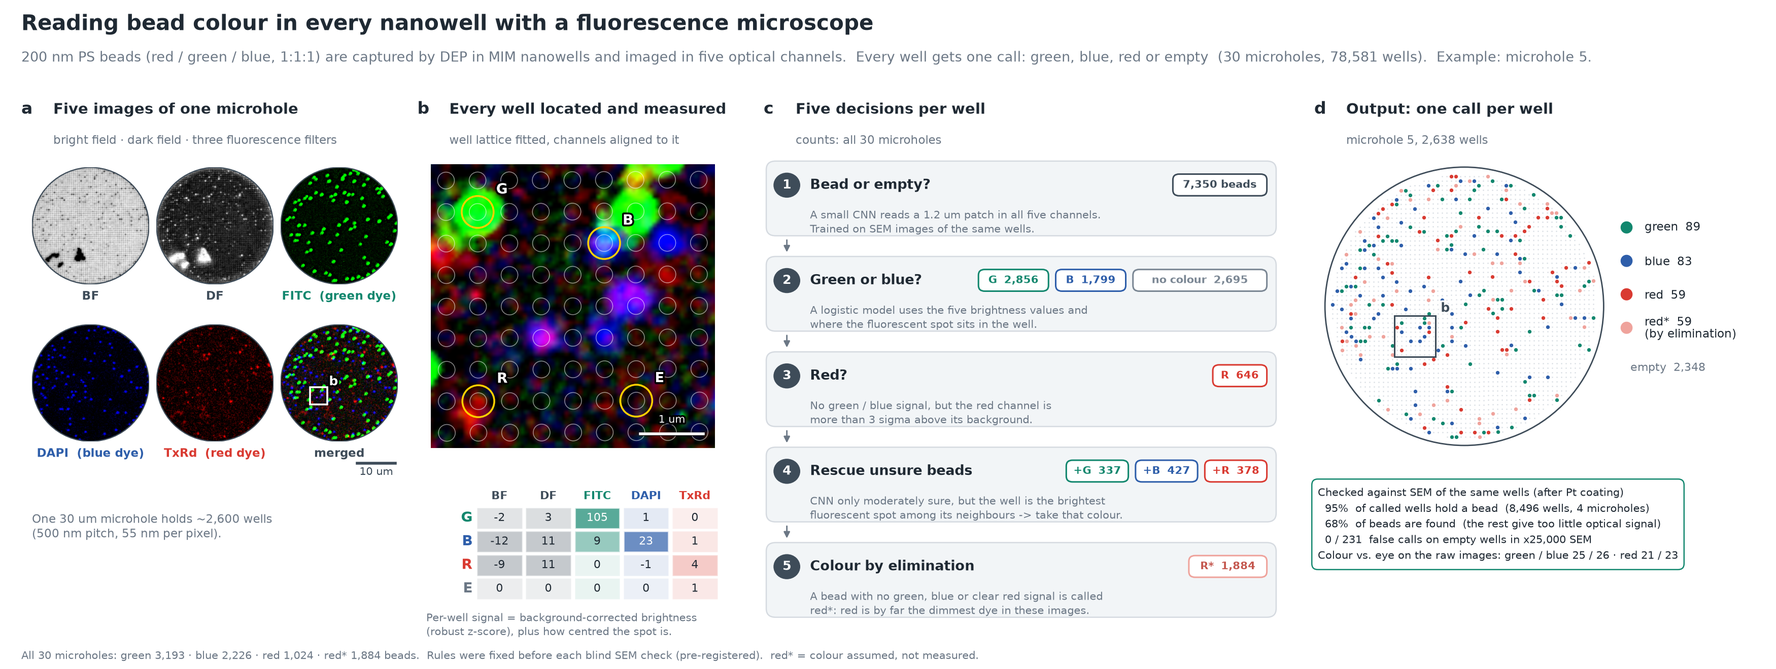
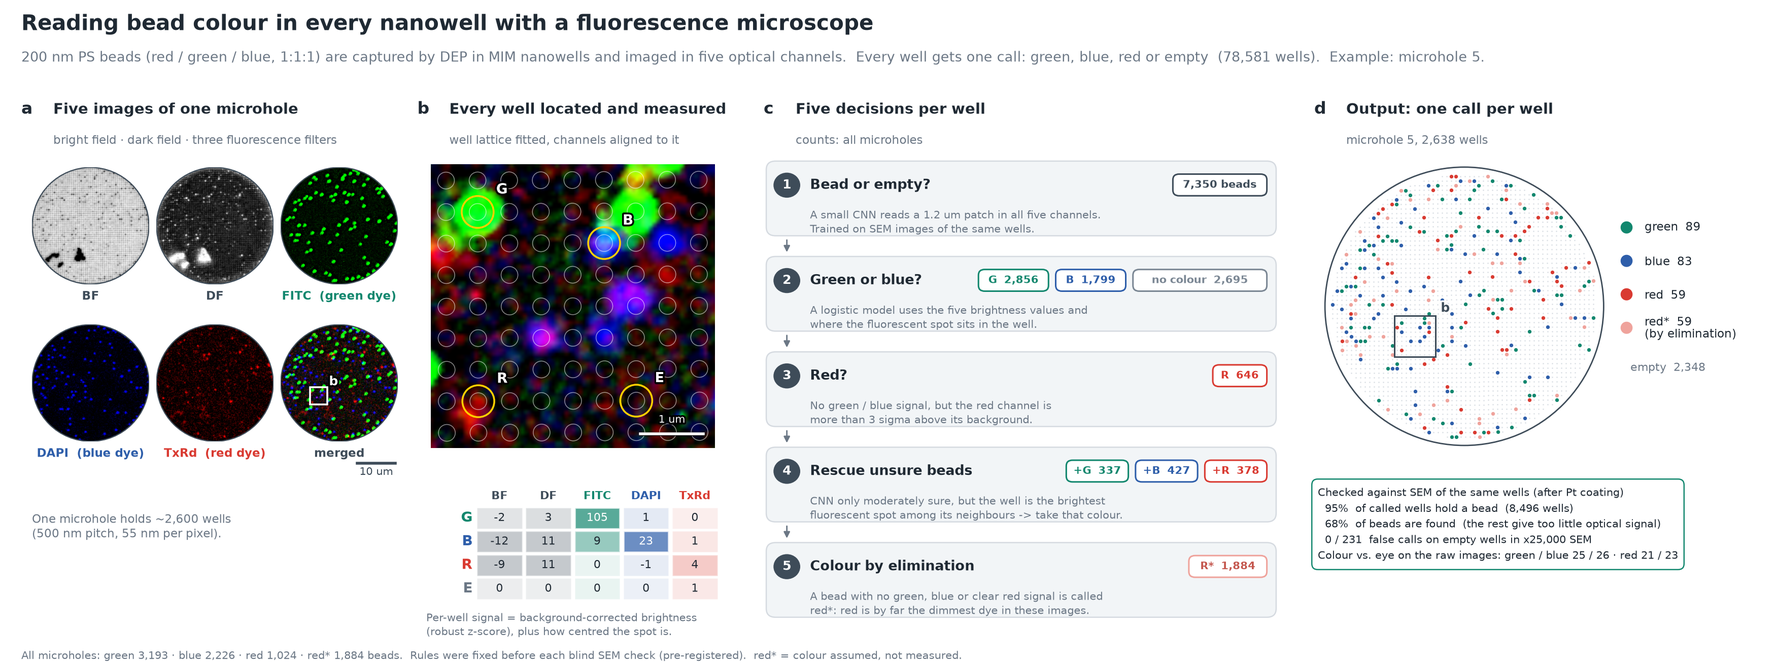
Public scope: drop window sizes and window counts from figures and captions
- Fig. 4 (CNN readout): remove "18.8 um microhole" and the 12/44/75-window counts; panel C title now "Occupancy vs. voltage"
- CNN readout v7 / pipeline v7: remove window IDs, the 18.8 um window size and the 75-window count
- Fig. 5b: remove the 20 um window size
- Fluorescence pipeline (Fig. 6a): remove the 30 um window size and the 30/4-microhole counts
- Three-colour map (Fig. 6b): remove field numbers and bar labels (they showed the field count)
- index.html / index_v1.html captions: drop "in 75 windows" and "30 microholes"

Claude-Session: https://claude.ai/code/session_01LQC9gszC1UkJGRSxoxnvnv

diff --git a/index.html b/index.html
@@ -519,7 +519,7 @@ var RESEARCH_INTEREST_TOPICS = [
     desc: 'Reading out plasmonic capture uniformity at scale with a convolutional neural network that classifies every well in every SEM window as empty, single-particle, or multi-particle occupancy. Self-supervised pretraining on ~194k unlabeled patches, fine-tuned on ~10.6k labeled wells, and run as a 5-network ensemble with a confidence gate, the network scores 99.0% on 2,116 held-out wells and agrees with an independent fluorescence readout. Across 70,983 wells in 75 SEM windows at V₂, it reads out a 98.99 ± 0.84% capture rate per window (98.2% single-particle, 0.85% RSD) — the structural statistic that makes the array quantitative.',
     relatedSkills: [{ categoryKey: 'dataanalysis', itemNames: ['Python-based data analysis'] }],
     imgs: [
-      { src: 'fig4_cnn_readout_v3.jpg', cap: 'CNN readout: every well in every SEM window is classified as empty, single, or multi (99.0% accuracy on 2,116 held-out wells, matched by an independent fluorescence readout). Capture switches on with DEP voltage (0.11% at 0 Vpp, 41.3% at V₁, 99.0% at V₂), and at V₂ reaches 98.99 ± 0.84% per window across 70,983 wells in 75 windows (RSD 0.85%).' }
+      { src: 'fig4_cnn_readout_v3.jpg', cap: 'CNN readout: every well in every SEM window is classified as empty, single, or multi (99.0% accuracy on 2,116 held-out wells, matched by an independent fluorescence readout). Capture switches on with DEP voltage (0.11% at 0 Vpp, 41.3% at V₁, 99.0% at V₂), and at V₂ reaches 98.99 ± 0.84% per window across 70,983 wells (RSD 0.85%).' }
     ]
   }
 ];
@@ -725,11 +725,11 @@ var SKILLS_GROUPS = [
           { name: 'OriginLab', desc: 'Scientific graphing and data analysis.', imgs: [], noPanel: true },
           { name: 'Veusz', desc: 'Scientific plotting for publication-quality figures.', imgs: [], noPanel: true },
           { name: 'Python-based data analysis', desc: 'Custom CNN-based image/data processing using PyTorch and OpenCV, applied to quantify single-particle capture uniformity (RSD) from SEM images as a measure of performance. Extended to an optical-microscope (OM) readout that calls the bead colour in every nanowell from five-channel fluorescence imaging and is validated against SEM of the same wells — a faster, non-destructive alternative to SEM for reading out multiplexed particle capture.', imgs: [
-            { src: 'fig_cnn_pipeline_v7.jpg', cap: 'Automated single-particle trapping analysis: SEM image → lattice fitting (500 nm lattice and microhole edge recovered from the image, no manual input) → per-well CNN classification → quantitative readout. 98.99 ± 0.84% per-window capture across 70,983 wells in 75 windows (RSD 0.85%); 99.0% accuracy on 2,116 held-out wells.' },
+            { src: 'fig_cnn_pipeline_v7.jpg', cap: 'Automated single-particle trapping analysis: SEM image → lattice fitting (500 nm lattice and microhole edge recovered from the image, no manual input) → per-well CNN classification → quantitative readout. 98.99 ± 0.84% per-window capture across 70,983 wells (RSD 0.85%); 99.0% accuracy on 2,116 held-out wells.' },
             { src: 'fig_cnn_readout_v7.jpg', cap: 'CNN-based classification (SINGLE/MULTI/EMPTY/low-confidence HOLD) with cnn_ps_v7_1, shown on the anchor (4,500×) and zoom (25,000×) images of the same microhole — one network reads both magnifications, no retraining.' },
             { src: 'fig_cnn_architecture_v7.jpg', cap: 'cnn_ps_v7_1: 4 conv blocks (64/128/256/256) → global average pooling → FC; self-supervised pretraining on 194k unlabeled patches, fine-tuned on 10,588 labeled wells; 5-network × 8-view ensemble, 99.0% accuracy on 2,116 held-out wells.' },
             { src: 'fig_om_readout_pipeline.png', cap: 'OM-based capture readout: 200 nm PS beads (red/green/blue, 1:1:1) captured by DEP in MIM nanowells are imaged in five channels (BF, DF, FITC, DAPI, TxRd). Each well is located on a fitted lattice and given one call — green, blue, red, or empty — through a five-step CNN + logistic-model decision cascade. Validated against SEM of the same wells: 95% of called wells hold a bead, with 0/231 false calls on empty wells.' },
-            { src: 'fig_om_readout_map.png', cap: 'Three-colour occupancy map from the OM readout across all 30 microholes (78,581 wells, 8,492 beads called), with per-field colour shares plotted against the 1:1:1 input ratio.' }
+            { src: 'fig_om_readout_map.png', cap: 'Three-colour occupancy map from the OM readout across every imaged microhole (78,581 wells, 8,492 beads called), with per-field colour shares plotted against the 1:1:1 input ratio.' }
           ] }
         ]
       },
@@ -782,7 +782,7 @@ var RESEARCH = [
     sub: 'Korea University',
     advisor: 'Advised by Prof. Yong-Sang Ryu',
     bullets: [
-      '<strong>Current Project: MIM Nanohole Plasmonic Metasurface for Single-Particle Analysis</strong> <span class="proj-status">(First-author, in preparation)</span><ul class="sub-bullets"><li><strong>Fabrication:</strong> Building on our co-authored work (in review, Advanced Materials), fabricating large-area nanohole plasmonic metasurfaces via laser interference lithography (LIL) and electron beam lithography (EBL) to define nanohole period and diameter, atomic layer deposition (ALD) and electron-beam evaporation to control insulator and metal layer thicknesses to within 5 nm, and ICP-RIE etching &mdash; engineering a SERS-optimized biosensor capable of quantifying SERS signal through DEP- and ACEO-driven single-nanoparticle capture at the sensing hotspots.</li><li><strong>Simulation:</strong> Simulating optical (COMSOL ewfd) and electrokinetic (COMSOL ec/spf) fields to identify nanohole geometries yielding a near-field enhancement of |<i>E</i>/<i>E</i><sub>0</sub>|<sup>4</sup> up to ~1.8&times;10<sup>5</sup> at sensing hotspots, and modeling DEP/ACEO-driven single-particle capture dynamics to validate experimental trapping behavior.</li><li><strong>CNN Analysis:</strong> Built a convolutional neural network (CNN) that classifies every nanowell in SEM images as empty, single-, or multi-particle occupied (self-supervised pretraining on ~194k unlabeled patches, fine-tuned on ~10.6k labeled wells, 5-network ensemble; 99.0% accuracy on 2,116 held-out wells). Across 70,983 wells in 75 SEM windows at V₂, it reads out a 98.99 &plusmn; 0.84% capture rate per window (98.2% single-particle) with 0.85% window-to-window relative standard deviation (RSD) &mdash; a quantitative measure of biosensor uniformity and the resulting SERS signal. Extended the readout to optical microscopy: a five-channel fluorescence pipeline calls the bead colour in every well (78,581 wells across 30 microholes) for multiplexed red/green/blue capture, validated against SEM of the same wells &mdash; a faster, non-destructive alternative to SEM (Fig. 6).</li></ul>',
+      '<strong>Current Project: MIM Nanohole Plasmonic Metasurface for Single-Particle Analysis</strong> <span class="proj-status">(First-author, in preparation)</span><ul class="sub-bullets"><li><strong>Fabrication:</strong> Building on our co-authored work (in review, Advanced Materials), fabricating large-area nanohole plasmonic metasurfaces via laser interference lithography (LIL) and electron beam lithography (EBL) to define nanohole period and diameter, atomic layer deposition (ALD) and electron-beam evaporation to control insulator and metal layer thicknesses to within 5 nm, and ICP-RIE etching &mdash; engineering a SERS-optimized biosensor capable of quantifying SERS signal through DEP- and ACEO-driven single-nanoparticle capture at the sensing hotspots.</li><li><strong>Simulation:</strong> Simulating optical (COMSOL ewfd) and electrokinetic (COMSOL ec/spf) fields to identify nanohole geometries yielding a near-field enhancement of |<i>E</i>/<i>E</i><sub>0</sub>|<sup>4</sup> up to ~1.8&times;10<sup>5</sup> at sensing hotspots, and modeling DEP/ACEO-driven single-particle capture dynamics to validate experimental trapping behavior.</li><li><strong>CNN Analysis:</strong> Built a convolutional neural network (CNN) that classifies every nanowell in SEM images as empty, single-, or multi-particle occupied (self-supervised pretraining on ~194k unlabeled patches, fine-tuned on ~10.6k labeled wells, 5-network ensemble; 99.0% accuracy on 2,116 held-out wells). Across 70,983 wells in 75 SEM windows at V₂, it reads out a 98.99 &plusmn; 0.84% capture rate per window (98.2% single-particle) with 0.85% window-to-window relative standard deviation (RSD) &mdash; a quantitative measure of biosensor uniformity and the resulting SERS signal. Extended the readout to optical microscopy: a five-channel fluorescence pipeline calls the bead colour in every well (78,581 wells) for multiplexed red/green/blue capture, validated against SEM of the same wells &mdash; a faster, non-destructive alternative to SEM (Fig. 6).</li></ul>',
       '<strong>Collaborative Projects</strong><ul class="sub-bullets"><li><strong>PRET (Plasmon Resonance Energy Transfer) metasurface:</strong> Collaborating with Prof. Junsuk Rho (POSTECH), whose group fabricates the base metasurface; performing the deposition (e.g., passivation) of the electrokinetic capture structures designed in our lab to complement it, enabling active electrokinetic concentration of target analytes in aqueous solution.</li><li><strong>Hydrogen-sensing MEMS platform:</strong> Providing deposition and lithography support for fabricating a terahertz-resonant MEMS chip structure whose resonance shifts depending on the presence and concentration of hydrogen gas, enabling label-free hydrogen sensing.</li><li><strong>Electrochemical-sensing nanostructure:</strong> Leading full-chip fabrication for a variant MIM nanohole platform (electrokinetic capture structure removed), tuning period, nanohole size, layer thickness, and constituent materials for electrochemical sensing.</li><li><strong>KU-KIST Joint Project:</strong> Collaborating Researcher at the Nanophotonics Research Center, KIST (Korea Institute of Science and Technology), developing label-free plasmonic sensing platforms for GPCR (G protein-coupled receptor) conformational dynamics in a drug-discovery initiative.</li></ul>'
     ],
     imgs: [
@@ -790,11 +790,11 @@ var RESEARCH = [
       { src: 'fig1_nanofab_v5.jpg', cap: 'Fig. 1 — Eight-step nanofabrication of the DEP-SERS nanowell chip, rendered from the mask CAD: Cr/Au bottom electrodes, ALD/e-beam/ALD SiO2 insulation, laser interference lithography (225 nm posts, 500 nm pitch), secondary exposure, Ti/Au e-beam deposition and lift-off, photoresist micropillars, and Ti/Al2O3 capping with ICP-RIE of the SiO2 to open the nanowells.' },
       { src: 'fig2_plasmonics_v6.jpg', cap: 'Fig. 2 — Plasmonic MIM nanohole metasurface: the 500 nm lattice phase-matches 785 nm light to the Au/SiO2 surface plasmon, and each aperture rim concentrates it into two lobes along E (COMSOL: |E/E₀|⁴ ≈ 1.8×10⁵); a period sweep shows how the lattice sets the hot spot.' },
       { src: 'fig3_electrokinetics_v6.jpg', cap: 'Fig. 3 — Electrokinetic capture: ACEO delivers 200 nm beads to the surface and DEP seats one bead per well at the top-Au rim — the plasmonic hot spot — shown against SEM of a filled microhole and COMSOL (ec + spf) modeling.' },
-      { src: 'fig4_cnn_readout_v3.jpg', cap: 'Fig. 4 — CNN readout: every well in every SEM window is classified as empty, single, or multi (99.0% accuracy on 2,116 held-out wells, matched by an independent fluorescence readout). Capture switches on with DEP voltage (0.11% at 0 Vpp, 41.3% at V₁, 99.0% at V₂), and at V₂ reaches 98.99 ± 0.84% per window across 70,983 wells in 75 windows (RSD 0.85%).' },
+      { src: 'fig4_cnn_readout_v3.jpg', cap: 'Fig. 4 — CNN readout: every well in every SEM window is classified as empty, single, or multi (99.0% accuracy on 2,116 held-out wells, matched by an independent fluorescence readout). Capture switches on with DEP voltage (0.11% at 0 Vpp, 41.3% at V₁, 99.0% at V₂), and at V₂ reaches 98.99 ± 0.84% per window across 70,983 wells (RSD 0.85%).' },
       { src: 'fig5_sers_readout_v6.jpg', cap: 'Fig. 5 — Concept: SERS raster read-out — one well, one bead, one spectrum — building a per-well identity map for multiplexed particle analysis. Spectra are illustrative (literature band positions for PS, PMMA, and PET), not measured on this chip.' },
       { src: 'fig5b_sers_measured.png', cap: 'Fig. 5b — Measured single-well SERS: the Raman probe (≈ 0.5 µm, about one 500 nm well) parked on a DEP-filled microhole (V₂, 200 nm PS) shows the polystyrene ring-breathing band at 1001 cm⁻¹ (S/N ≈ 17, one 20 s shot); the probe position is registered from the optical view to SEM approximately.' },
       { src: 'fig_om_readout_pipeline.png', cap: 'Fig. 6a — OM-based multiplexed readout: 200 nm PS beads (red/green/blue, 1:1:1) captured by DEP in MIM nanowells are imaged in five channels (BF, DF, FITC, DAPI, TxRd). Each well is located on a fitted lattice and given one call — green, blue, red, or empty — through a five-step CNN + logistic-model decision cascade. Validated against SEM of the same wells: 95% of called wells hold a bead, with 0/231 false calls on empty wells.' },
-      { src: 'fig_om_readout_map.png', cap: 'Fig. 6b — Three-colour occupancy map from the OM readout across all 30 microholes (78,581 wells, 8,492 beads called), with per-field colour shares plotted against the 1:1:1 input ratio.' },
+      { src: 'fig_om_readout_map.png', cap: 'Fig. 6b — Three-colour occupancy map from the OM readout across every imaged microhole (78,581 wells, 8,492 beads called), with per-field colour shares plotted against the 1:1:1 input ratio.' },
       { src: 'fig6c_fluor_twin.jpg', cap: 'Fig. 6c — Digital twin of the OM readout. Every call the readout makes is turned back into geometry: each called bead is placed, in its called colour, in its own nanowell of a 3D model of the chip built on that field’s measured lattice (Rhino 8, scripted in Python), so the readout can be checked by eye against the raw image, well by well. Shown for one microhole (200 nm PS beads, red/green/blue 1:1:1, captured by DEP; frozen readout v3.3): (a) TxRd/FITC/DAPI image, (b) one call per well, (c) the twin from the same viewpoint, (d) tilted, (e) the same beads numbered in the image and in the twin. 310 beads in 2,614 wells (G 110 · B 63 · R 85 · R* 52); R* = red by elimination, as TxRd detects only 10–26 % of red beads. Readout precision 0.95 · recall 0.68 against SEM ground truth.' }
     ]
   },

diff --git a/index_v1.html b/index_v1.html
@@ -396,7 +396,7 @@ var RESEARCH_INTEREST_TOPICS = [
     desc: 'Reading out plasmonic capture uniformity at scale with a convolutional neural network that classifies every well in every SEM window as empty, single-particle, or multi-particle occupancy. Self-supervised pretraining on ~194k unlabeled patches, fine-tuned on ~10.6k labeled wells, and run as a 5-network ensemble with a confidence gate, the network scores 99.0% on 2,116 held-out wells and agrees with an independent fluorescence readout. Across 70,983 wells in 75 SEM windows at V₂, it reads out a 98.99 ± 0.84% capture rate per window (98.2% single-particle, 0.85% RSD) — the structural statistic that makes the array quantitative.',
     relatedSkills: [{ categoryKey: 'dataanalysis', itemNames: ['Python-based data analysis'] }],
     imgs: [
-      { src: 'fig4_cnn_readout_v3.jpg', cap: 'CNN readout: every well in every SEM window is classified as empty, single, or multi (99.0% accuracy on 2,116 held-out wells, matched by an independent fluorescence readout). Capture switches on with DEP voltage (0.11% at 0 Vpp, 41.3% at V₁, 99.0% at V₂), and at V₂ reaches 98.99 ± 0.84% per window across 70,983 wells in 75 windows (RSD 0.85%).' }
+      { src: 'fig4_cnn_readout_v3.jpg', cap: 'CNN readout: every well in every SEM window is classified as empty, single, or multi (99.0% accuracy on 2,116 held-out wells, matched by an independent fluorescence readout). Capture switches on with DEP voltage (0.11% at 0 Vpp, 41.3% at V₁, 99.0% at V₂), and at V₂ reaches 98.99 ± 0.84% per window across 70,983 wells (RSD 0.85%).' }
     ]
   }
 ];
@@ -598,11 +598,11 @@ var SKILLS_GROUPS = [
           { name: 'OriginLab', desc: 'Scientific graphing and data analysis.', imgs: [], noPanel: true },
           { name: 'Veusz', desc: 'Scientific plotting for publication-quality figures.', imgs: [], noPanel: true },
           { name: 'Python-based data analysis', desc: 'Custom CNN-based image/data processing using PyTorch and OpenCV, applied to quantify single-particle capture uniformity (RSD) from SEM images as a measure of performance. Extended to an optical-microscope (OM) readout that calls the bead colour in every nanowell from five-channel fluorescence imaging and is validated against SEM of the same wells — a faster, non-destructive alternative to SEM for reading out multiplexed particle capture.', imgs: [
-            { src: 'fig_cnn_pipeline_v7.jpg', cap: 'Automated single-particle trapping analysis: SEM image → lattice fitting (500 nm lattice and microhole edge recovered from the image, no manual input) → per-well CNN classification → quantitative readout. 98.99 ± 0.84% per-window capture across 70,983 wells in 75 windows (RSD 0.85%); 99.0% accuracy on 2,116 held-out wells.' },
+            { src: 'fig_cnn_pipeline_v7.jpg', cap: 'Automated single-particle trapping analysis: SEM image → lattice fitting (500 nm lattice and microhole edge recovered from the image, no manual input) → per-well CNN classification → quantitative readout. 98.99 ± 0.84% per-window capture across 70,983 wells (RSD 0.85%); 99.0% accuracy on 2,116 held-out wells.' },
             { src: 'fig_cnn_readout_v7.jpg', cap: 'CNN-based classification (SINGLE/MULTI/EMPTY/low-confidence HOLD) with cnn_ps_v7_1, shown on the anchor (4,500×) and zoom (25,000×) images of the same microhole — one network reads both magnifications, no retraining.' },
             { src: 'fig_cnn_architecture_v7.jpg', cap: 'cnn_ps_v7_1: 4 conv blocks (64/128/256/256) → global average pooling → FC; self-supervised pretraining on 194k unlabeled patches, fine-tuned on 10,588 labeled wells; 5-network × 8-view ensemble, 99.0% accuracy on 2,116 held-out wells.' },
             { src: 'fig_om_readout_pipeline.png', cap: 'OM-based capture readout: 200 nm PS beads (red/green/blue, 1:1:1) captured by DEP in MIM nanowells are imaged in five channels (BF, DF, FITC, DAPI, TxRd). Each well is located on a fitted lattice and given one call — green, blue, red, or empty — through a five-step CNN + logistic-model decision cascade. Validated against SEM of the same wells: 95% of called wells hold a bead, with 0/231 false calls on empty wells.' },
-            { src: 'fig_om_readout_map.png', cap: 'Three-colour occupancy map from the OM readout across all 30 microholes (78,581 wells, 8,492 beads called), with per-field colour shares plotted against the 1:1:1 input ratio.' }
+            { src: 'fig_om_readout_map.png', cap: 'Three-colour occupancy map from the OM readout across every imaged microhole (78,581 wells, 8,492 beads called), with per-field colour shares plotted against the 1:1:1 input ratio.' }
           ] }
         ]
       },
@@ -654,18 +654,18 @@ var RESEARCH = [
     sub: 'Korea University',
     advisor: 'Advised by Prof. Yong-Sang Ryu',
     bullets: [
-      '<strong>Current Project: MIM Nanohole Plasmonic Metasurface for Single-Particle Analysis</strong> <span class="proj-status">(First-author, in preparation)</span><ul class="sub-bullets"><li><strong>Fabrication:</strong> Building on our co-authored work (in review, Advanced Materials), fabricating large-area nanohole plasmonic metasurfaces via laser interference lithography (LIL) and electron beam lithography (EBL) to define nanohole period and diameter, atomic layer deposition (ALD) and electron-beam evaporation to control insulator and metal layer thicknesses to within 5 nm, and ICP-RIE etching &mdash; engineering a SERS-optimized biosensor capable of quantifying SERS signal through DEP- and ACEO-driven single-nanoparticle capture at the sensing hotspots.</li><li><strong>Simulation:</strong> Simulating optical (COMSOL ewfd) and electrokinetic (COMSOL ec/spf) fields to identify nanohole geometries yielding a near-field enhancement of |<i>E</i>/<i>E</i><sub>0</sub>|<sup>4</sup> up to ~1.8&times;10<sup>5</sup> at sensing hotspots, and modeling DEP/ACEO-driven single-particle capture dynamics to validate experimental trapping behavior.</li><li><strong>CNN Analysis:</strong> Built a convolutional neural network (CNN) that classifies every nanowell in SEM images as empty, single-, or multi-particle occupied (self-supervised pretraining on ~194k unlabeled patches, fine-tuned on ~10.6k labeled wells, 5-network ensemble; 99.0% accuracy on 2,116 held-out wells). Across 70,983 wells in 75 SEM windows at V₂, it reads out a 98.99 &plusmn; 0.84% capture rate per window (98.2% single-particle) with 0.85% window-to-window relative standard deviation (RSD) &mdash; a quantitative measure of biosensor uniformity and the resulting SERS signal. Extended the readout to optical microscopy: a five-channel fluorescence pipeline calls the bead colour in every well (78,581 wells across 30 microholes) for multiplexed red/green/blue capture, validated against SEM of the same wells &mdash; a faster, non-destructive alternative to SEM (Fig. 6).</li></ul>',
+      '<strong>Current Project: MIM Nanohole Plasmonic Metasurface for Single-Particle Analysis</strong> <span class="proj-status">(First-author, in preparation)</span><ul class="sub-bullets"><li><strong>Fabrication:</strong> Building on our co-authored work (in review, Advanced Materials), fabricating large-area nanohole plasmonic metasurfaces via laser interference lithography (LIL) and electron beam lithography (EBL) to define nanohole period and diameter, atomic layer deposition (ALD) and electron-beam evaporation to control insulator and metal layer thicknesses to within 5 nm, and ICP-RIE etching &mdash; engineering a SERS-optimized biosensor capable of quantifying SERS signal through DEP- and ACEO-driven single-nanoparticle capture at the sensing hotspots.</li><li><strong>Simulation:</strong> Simulating optical (COMSOL ewfd) and electrokinetic (COMSOL ec/spf) fields to identify nanohole geometries yielding a near-field enhancement of |<i>E</i>/<i>E</i><sub>0</sub>|<sup>4</sup> up to ~1.8&times;10<sup>5</sup> at sensing hotspots, and modeling DEP/ACEO-driven single-particle capture dynamics to validate experimental trapping behavior.</li><li><strong>CNN Analysis:</strong> Built a convolutional neural network (CNN) that classifies every nanowell in SEM images as empty, single-, or multi-particle occupied (self-supervised pretraining on ~194k unlabeled patches, fine-tuned on ~10.6k labeled wells, 5-network ensemble; 99.0% accuracy on 2,116 held-out wells). Across 70,983 wells in 75 SEM windows at V₂, it reads out a 98.99 &plusmn; 0.84% capture rate per window (98.2% single-particle) with 0.85% window-to-window relative standard deviation (RSD) &mdash; a quantitative measure of biosensor uniformity and the resulting SERS signal. Extended the readout to optical microscopy: a five-channel fluorescence pipeline calls the bead colour in every well (78,581 wells) for multiplexed red/green/blue capture, validated against SEM of the same wells &mdash; a faster, non-destructive alternative to SEM (Fig. 6).</li></ul>',
       '<strong>Collaborative Projects</strong><ul class="sub-bullets"><li><strong>PRET (Plasmon Resonance Energy Transfer) metasurface:</strong> Collaborating with Prof. Junsuk Rho (POSTECH), whose group fabricates the base metasurface; performing the deposition (e.g., passivation) of the electrokinetic capture structures designed in our lab to complement it, enabling active electrokinetic concentration of target analytes in aqueous solution.</li><li><strong>Hydrogen-sensing MEMS platform:</strong> Providing deposition and lithography support for fabricating a terahertz-resonant MEMS chip structure whose resonance shifts depending on the presence and concentration of hydrogen gas, enabling label-free hydrogen sensing.</li><li><strong>Electrochemical-sensing nanostructure:</strong> Leading full-chip fabrication for a variant MIM nanohole platform (electrokinetic capture structure removed), tuning period, nanohole size, layer thickness, and constituent materials for electrochemical sensing.</li><li><strong>KU-KIST Joint Project:</strong> Collaborating Researcher at the Nanophotonics Research Center, KIST (Korea Institute of Science and Technology), developing label-free plasmonic sensing platforms for GPCR (G protein-coupled receptor) conformational dynamics in a drug-discovery initiative.</li></ul>'
     ],
     imgs: [
       { src: 'fig1_nanofab.png', cap: 'Fig. 1 — Eight-step nanofabrication of the DEP-SERS nanowell chip, rendered from the mask CAD: Cr/Au bottom electrodes, ALD/e-beam/ALD SiO2 insulation, laser interference lithography (200 nm posts, 500 nm pitch), secondary exposure, Ti/Au e-beam deposition and lift-off, photoresist micropillars, and Ti/Al2O3 capping with ICP-RIE of the SiO2 to open the nanowells.' },
       { src: 'fig2_plasmonics_v2.jpg', cap: 'Fig. 2 — Plasmonic MIM nanohole metasurface: the 500 nm lattice phase-matches 785 nm light to the Au/SiO2 surface plasmon, and each aperture rim concentrates it into two lobes along E (COMSOL: |E/E₀|⁴ ≈ 1.8×10⁵); a period sweep shows how the lattice sets the hot spot.' },
       { src: 'fig3_electrokinetics.png', cap: 'Fig. 3 — Electrokinetic capture: ACEO delivers 200 nm beads to the surface and DEP seats one bead per well at the top-Au rim — the plasmonic hot spot — shown against SEM of a filled microhole and COMSOL (ec + spf) modeling.' },
-      { src: 'fig4_cnn_readout_v3.jpg', cap: 'Fig. 4 — CNN readout: every well in every SEM window is classified as empty, single, or multi (99.0% accuracy on 2,116 held-out wells, matched by an independent fluorescence readout). Capture switches on with DEP voltage (0.11% at 0 Vpp, 41.3% at V₁, 99.0% at V₂), and at V₂ reaches 98.99 ± 0.84% per window across 70,983 wells in 75 windows (RSD 0.85%).' },
+      { src: 'fig4_cnn_readout_v3.jpg', cap: 'Fig. 4 — CNN readout: every well in every SEM window is classified as empty, single, or multi (99.0% accuracy on 2,116 held-out wells, matched by an independent fluorescence readout). Capture switches on with DEP voltage (0.11% at 0 Vpp, 41.3% at V₁, 99.0% at V₂), and at V₂ reaches 98.99 ± 0.84% per window across 70,983 wells (RSD 0.85%).' },
       { src: 'fig5_sers_readout.png', cap: 'Fig. 5 — Concept: SERS raster read-out — one well, one bead, one spectrum — building a per-well identity map for multiplexed particle analysis. Spectra are illustrative (literature band positions for PS, PMMA, and PET), not measured on this chip.' },
       { src: 'fig5b_sers_measured.png', cap: 'Fig. 5b — Measured single-well SERS: the Raman probe (≈ 0.5 µm, about one 500 nm well) parked on a DEP-filled microhole (V₂, 200 nm PS) shows the polystyrene ring-breathing band at 1001 cm⁻¹ (S/N ≈ 17, one 20 s shot); the probe position is registered from the optical view to SEM approximately.' },
       { src: 'fig_om_readout_pipeline.png', cap: 'Fig. 6a — OM-based multiplexed readout: 200 nm PS beads (red/green/blue, 1:1:1) captured by DEP in MIM nanowells are imaged in five channels (BF, DF, FITC, DAPI, TxRd). Each well is located on a fitted lattice and given one call — green, blue, red, or empty — through a five-step CNN + logistic-model decision cascade. Validated against SEM of the same wells: 95% of called wells hold a bead, with 0/231 false calls on empty wells.' },
-      { src: 'fig_om_readout_map.png', cap: 'Fig. 6b — Three-colour occupancy map from the OM readout across all 30 microholes (78,581 wells, 8,492 beads called), with per-field colour shares plotted against the 1:1:1 input ratio.' }
+      { src: 'fig_om_readout_map.png', cap: 'Fig. 6b — Three-colour occupancy map from the OM readout across every imaged microhole (78,581 wells, 8,492 beads called), with per-field colour shares plotted against the 1:1:1 input ratio.' }
     ]
   },
   {
